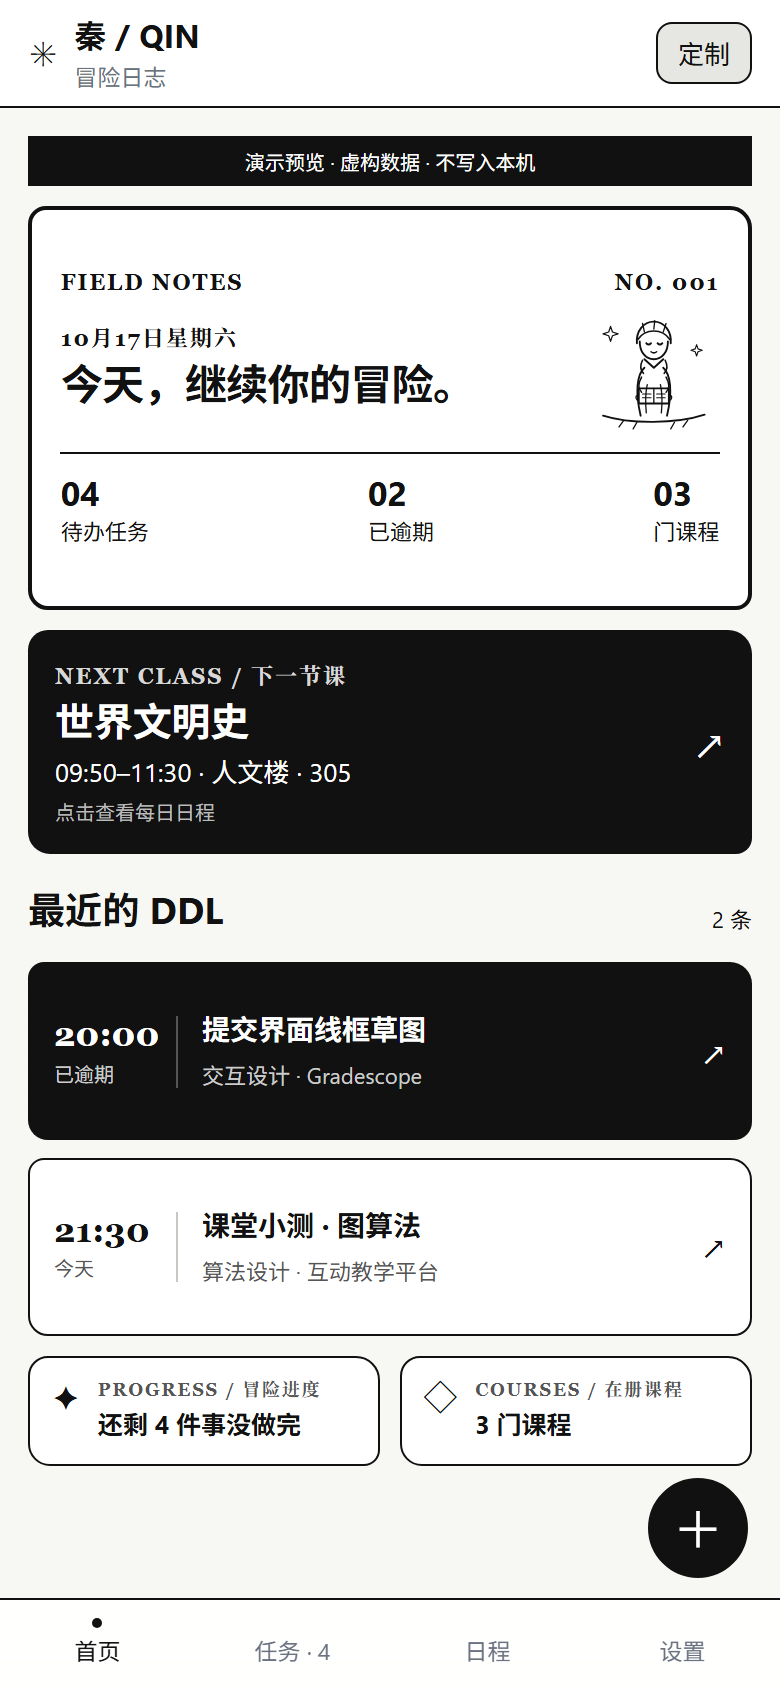
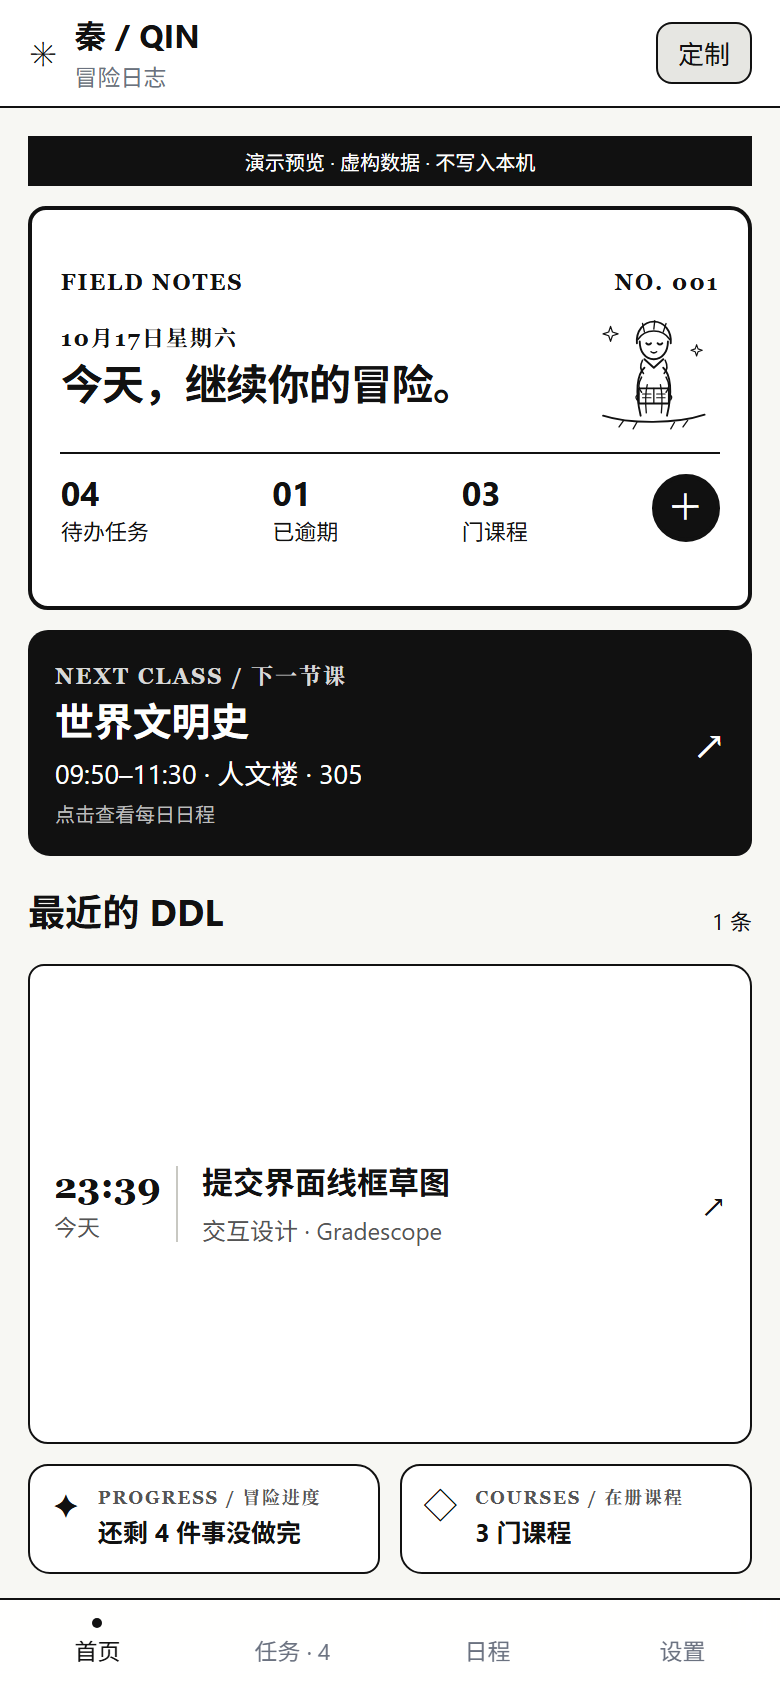
chore(dev): 本轮验证脚本与截图
计数器 bug 的复现脚本、字号/裁切/一屏装下的测量脚本，以及重拍的首页、任务日志、设置页截图。

diff --git a/tools/expr-ui-round2.js b/tools/expr-ui-round2.js
@@ -1,0 +1,78 @@
+(async () => {
+  const sleep = (ms) => new Promise((r) => setTimeout(r, ms));
+  const log = [];
+  const setValue = (el, value) => {
+    const proto = el instanceof HTMLTextAreaElement ? HTMLTextAreaElement.prototype : HTMLInputElement.prototype;
+    Object.getOwnPropertyDescriptor(proto, 'value').set.call(el, value);
+    el.dispatchEvent(new Event('input', { bubbles: true }));
+  };
+  const btn = (t) => [...document.querySelectorAll('button')].find((b) => b.textContent.includes(t));
+  const badge = () => (document.querySelectorAll('.tabbar button')[1].textContent || '').trim();
+  const heroNums = () => [...document.querySelectorAll('.quest-intro__stats b')].map((b) => b.textContent).join('/');
+  const px = (sel, prop) => {
+    const el = document.querySelector(sel);
+    if (el === null) return '(无)';
+    return getComputedStyle(el)[prop];
+  };
+
+  // ---- 结构：加号在人物卡里，浮动按钮没了 ----
+  log.push('人物卡里的加号 = ' + (document.querySelector('.quest-intro__add') !== null));
+  log.push('右下角浮动按钮 = ' + (document.querySelector('.fab') !== null));
+  const addBox = document.querySelector('.quest-intro__add')?.getBoundingClientRect();
+  const introBox = document.querySelector('.quest-intro')?.getBoundingClientRect();
+  log.push('加号在人物卡范围内 = ' + (addBox !== undefined && introBox !== undefined && addBox.top >= introBox.top - 1 && addBox.bottom <= introBox.bottom + 1));
+
+  // ---- 字号 ----
+  log.push('DDL 标题字号 = ' + px('.ddl-card__body strong', 'fontSize'));
+  log.push('DDL 时间字号 = ' + px('.ddl-card__time strong', 'fontSize'));
+
+  // ---- 逾期配色 ----
+  const overdue = document.querySelector('.ddl-card[data-overdue="true"]');
+  if (overdue === null) log.push('逾期卡 = 今天没有逾期条目');
+  else {
+    const cs = getComputedStyle(overdue);
+    log.push('逾期卡 背景=' + cs.backgroundColor + ' 文字=' + cs.color + ' 边框=' + cs.borderTopStyle);
+  }
+
+  const before = { badge: badge(), nums: heroNums() };
+  log.push('加之前 → ' + before.badge + ' / ' + before.nums);
+
+  // ---- 用人物卡里的加号新建一条 ----
+  document.querySelector('.quest-intro__add').click();
+  await sleep(350);
+  btn('自主添加')?.click();
+  await sleep(400);
+  setValue(document.querySelector('.sheet input[placeholder*="作业"]'), '加号新建自检');
+  await sleep(150);
+  btn('保存')?.click();
+  await sleep(900);
+
+  log.push('加之后 → ' + badge() + ' / ' + heroNums());
+
+  // ---- 任务日志里应能看见 ----
+  document.querySelectorAll('.tabbar button')[1].click();
+  await sleep(600);
+  const rows = [...document.querySelectorAll('.log-row')].map((r) => (r.textContent || '').replace(/\s+/g, ' ').trim());
+  log.push('日志里能看见「加号新建自检」= ' + rows.some((r) => r.includes('加号新建自检')));
+  log.push('日志行数 = ' + rows.length);
+  log.push('日志标题字号 = ' + px('.log-row__body strong', 'fontSize') + ' 截止字号 = ' + px('.log-row__due b', 'fontSize'));
+
+  // ---- 设置页字号滑轨 ----
+  document.querySelectorAll('.tabbar button')[3].click();
+  await sleep(600);
+  const range = document.querySelector('.slider input[type="range"]');
+  log.push('字号滑轨存在 = ' + (range !== null) + ' 值=' + (range?.value ?? '-'));
+  if (range !== null) {
+    setValue(range, '1.25');
+    await sleep(400);
+    document.querySelectorAll('.tabbar button')[1].click();
+    await sleep(500);
+    log.push('调到 125% 后 日志标题字号 = ' + px('.log-row__body strong', 'fontSize') + ' 截止字号 = ' + px('.log-row__due b', 'fontSize'));
+    document.querySelectorAll('.tabbar button')[3].click();
+    await sleep(400);
+    setValue(document.querySelector('.slider input[type="range"]'), '1');
+    await sleep(300);
+  }
+
+  return log.join('\n');
+})()

diff --git a/tools/expr-clip-check.js b/tools/expr-clip-check.js
@@ -1,0 +1,41 @@
+(async () => {
+  const sleep = (ms) => new Promise((r) => setTimeout(r, ms));
+  const setValue = (el, value) => {
+    Object.getOwnPropertyDescriptor(HTMLInputElement.prototype, 'value').set.call(el, value);
+    el.dispatchEvent(new Event('input', { bubbles: true }));
+  };
+  const probe = (label) => {
+    const slot = document.querySelector('.home-slot[data-card="ddl"]');
+    const list = document.querySelector('.ddl-list');
+    const cards = [...document.querySelectorAll('.ddl-card')];
+    const clipped = cards.filter((c) => c.scrollHeight > c.clientHeight + 1).length;
+    const bodyOverflow = [...document.querySelectorAll('.ddl-card__body strong')]
+      .map((el) => el.scrollHeight > el.clientHeight + 1)
+      .filter(Boolean).length;
+    return label + ' ' + JSON.stringify({
+      slotH: Math.round(slot?.getBoundingClientRect().height ?? 0),
+      listScroll: list === null ? null : [list.scrollHeight, list.clientHeight],
+      cards: cards.length,
+      cardClipped: clipped,
+      titleClipped: bodyOverflow,
+      firstCardH: Math.round(cards[0]?.getBoundingClientRect().height ?? 0),
+      titleFs: cards[0] === undefined ? null : getComputedStyle(cards[0].querySelector('.ddl-card__body strong')).fontSize,
+    });
+  };
+
+  const out = [probe('100%')];
+
+  document.querySelectorAll('.tabbar button')[3].click();
+  await sleep(500);
+  setValue(document.querySelector('.slider input[type="range"]'), '1.25');
+  await sleep(400);
+  document.querySelectorAll('.tabbar button')[0].click();
+  await sleep(700);
+  out.push(probe('125%'));
+
+  document.querySelectorAll('.tabbar button')[3].click();
+  await sleep(400);
+  setValue(document.querySelector('.slider input[type="range"]'), '1');
+  await sleep(300);
+  return out.join('\n');
+})()

diff --git a/tools/expr-pages-check.js b/tools/expr-pages-check.js
@@ -1,0 +1,37 @@
+(async () => {
+  const sleep = (ms) => new Promise((r) => setTimeout(r, ms));
+  const out = [];
+  const px = (sel, prop) => {
+    const el = document.querySelector(sel);
+    return el === null ? '(无)' : getComputedStyle(el)[prop];
+  };
+
+  // 设置页
+  document.querySelectorAll('.tabbar button')[3].click();
+  await sleep(600);
+  const row = document.querySelector('.slider');
+  const range = document.querySelector('.slider input[type="range"]');
+  out.push('滑轨行高=' + (row === null ? '-' : Math.round(row.getBoundingClientRect().height))
+    + ' 滑轨宽=' + (range === null ? '-' : Math.round(range.getBoundingClientRect().width))
+    + ' 当前值=' + (range === null ? '-' : range.value)
+    + ' 标签=' + (document.querySelector('.slider__value')?.textContent ?? '-'));
+  out.push('设置页正文基准 = ' + px('.faint', 'fontSize'));
+
+  // 日程页
+  document.querySelectorAll('.tabbar button')[2].click();
+  await sleep(600);
+  out.push('日程 标题字号=' + px('.schedule-entry__body strong', 'fontSize')
+    + ' 时间字号=' + px('.schedule-entry__time', 'fontSize')
+    + ' 条目数=' + document.querySelectorAll('.schedule-entry').length);
+
+  // 任务页
+  document.querySelectorAll('.tabbar button')[1].click();
+  await sleep(600);
+  out.push('任务页 标题字号=' + px('.log-row__body strong', 'fontSize')
+    + ' 截止字号=' + px('.log-row__due b', 'fontSize')
+    + ' 逾期行数=' + document.querySelectorAll('.log-row[data-overdue="true"]').length);
+  const od = document.querySelector('.log-row[data-overdue="true"]');
+  out.push('逾期行配色 = ' + (od === null ? '(今天没有逾期)' : getComputedStyle(od).backgroundColor + ' / ' + getComputedStyle(od).color));
+
+  return out.join('\n');
+})()

diff --git a/tools/expr-counter-bug.js b/tools/expr-counter-bug.js
@@ -1,0 +1,42 @@
+(async () => {
+  const sleep = (ms) => new Promise((r) => setTimeout(r, ms));
+  const log = [];
+  const setValue = (el, value) => {
+    const proto = el instanceof HTMLTextAreaElement ? HTMLTextAreaElement.prototype : HTMLInputElement.prototype;
+    Object.getOwnPropertyDescriptor(proto, 'value').set.call(el, value);
+    el.dispatchEvent(new Event('input', { bubbles: true }));
+  };
+  const btn = (text) => [...document.querySelectorAll('button')].find((b) => b.textContent.includes(text));
+  const tab = () => (document.querySelectorAll('.tabbar button')[1].textContent || '').trim();
+  const heroNum = () => {
+    const el = document.querySelector('.quest-stats b, .hero__stats b');
+    return el === null ? '(找不到)' : el.textContent;
+  };
+  const snapshot = (label) => {
+    log.push(label + ' → 任务页签="' + tab() + '"  首页待办=' + heroNum());
+  };
+
+  snapshot('加之前');
+
+  document.querySelectorAll('.tabbar button')[1].click();
+  await sleep(400);
+  document.querySelector('.fab')?.click();
+  await sleep(350);
+  btn('自主添加')?.click();
+  await sleep(400);
+  const title = document.querySelector('.sheet input[placeholder*="作业"]');
+  setValue(title, '演示模式自检 ' + Date.now());
+  await sleep(150);
+  btn('保存')?.click();
+  await sleep(900);
+
+  snapshot('加之后');
+  const rows = [...document.querySelectorAll('.log-row')].map((r) => (r.textContent || '').replace(/\s+/g, ' ').trim());
+  log.push('任务日志里能看见这条吗 = ' + rows.some((r) => r.includes('演示模式自检')));
+  log.push('日志条数 = ' + rows.length);
+
+  document.querySelectorAll('.tabbar button')[0].click();
+  await sleep(500);
+  snapshot('回首页');
+  return log.join('\n');
+})()

diff --git a/tools/expr-fontscale-fit.js b/tools/expr-fontscale-fit.js
@@ -1,0 +1,40 @@
+(async () => {
+  const sleep = (ms) => new Promise((r) => setTimeout(r, ms));
+  const setValue = (el, value) => {
+    const proto = HTMLInputElement.prototype;
+    Object.getOwnPropertyDescriptor(proto, 'value').set.call(el, value);
+    el.dispatchEvent(new Event('input', { bubbles: true }));
+  };
+  const out = [];
+  const measure = () => {
+    const body = document.querySelector('.app__body');
+    return {
+      fits: body.scrollHeight <= body.clientHeight + 1,
+      overflow: body.scrollHeight - body.clientHeight,
+      fs: getComputedStyle(document.querySelector('.app')).getPropertyValue('--font-scale').trim(),
+      ddlCardH: Math.round((document.querySelector('.ddl-card')?.getBoundingClientRect().height ?? 0)),
+    };
+  };
+
+  document.querySelectorAll('.tabbar button')[3].click();
+  await sleep(500);
+  setValue(document.querySelector('.slider input[type="range"]'), '1.25');
+  await sleep(400);
+  document.querySelectorAll('.tabbar button')[0].click();
+  await sleep(700);
+  out.push('125% 首页 ' + JSON.stringify(measure()));
+
+  document.querySelectorAll('.tabbar button')[3].click();
+  await sleep(400);
+  setValue(document.querySelector('.slider input[type="range"]'), '0.9');
+  await sleep(400);
+  document.querySelectorAll('.tabbar button')[0].click();
+  await sleep(700);
+  out.push(' 90% 首页 ' + JSON.stringify(measure()));
+
+  document.querySelectorAll('.tabbar button')[3].click();
+  await sleep(400);
+  setValue(document.querySelector('.slider input[type="range"]'), '1');
+  await sleep(300);
+  return out.join('\n');
+})()

diff --git a/tools/expr-fit-check.js b/tools/expr-fit-check.js
@@ -1,0 +1,21 @@
+JSON.stringify((() => {
+  const body = document.querySelector('.app__body');
+  const stats = document.querySelector('.quest-intro__stats');
+  const add = document.querySelector('.quest-intro__add');
+  const b = (el) => (el === null ? null : { w: Math.round(el.getBoundingClientRect().width), h: Math.round(el.getBoundingClientRect().height) });
+  const overflowX = [...document.querySelectorAll('.quest-intro__stats > *')].some((el) => {
+    const r = el.getBoundingClientRect();
+    const s = stats.getBoundingClientRect();
+    return r.right > s.right + 1;
+  });
+  return {
+    vw: innerWidth,
+    vh: innerHeight,
+    fits: body.scrollHeight <= body.clientHeight + 1,
+    overflow: body.scrollHeight - body.clientHeight,
+    stats: b(stats),
+    add: b(add),
+    statsOverflowX: overflowX,
+    slots: [...document.querySelectorAll('.home-slot[data-card]')].map((el) => el.dataset.card + ':' + Math.round(el.getBoundingClientRect().height)),
+  };
+})())

diff --git a/tools/expr-struct-check.js b/tools/expr-struct-check.js
@@ -1,0 +1,11 @@
+JSON.stringify({
+  topbarBtns: [...document.querySelectorAll('.topbar button')].map((b) => b.textContent.trim()),
+  heroAdd: document.querySelector('.quest-intro__add') !== null,
+  fab: document.querySelector('.fab') !== null,
+  cards: [...document.querySelectorAll('.home-slot[data-card]')].map((el) => el.dataset.card),
+  overdue: [...document.querySelectorAll('.ddl-card')].map((c) => ({
+    t: (c.querySelector('.ddl-card__body strong')?.textContent || '').slice(0, 10),
+    od: c.dataset.overdue,
+    bg: getComputedStyle(c).backgroundColor,
+  })),
+})
